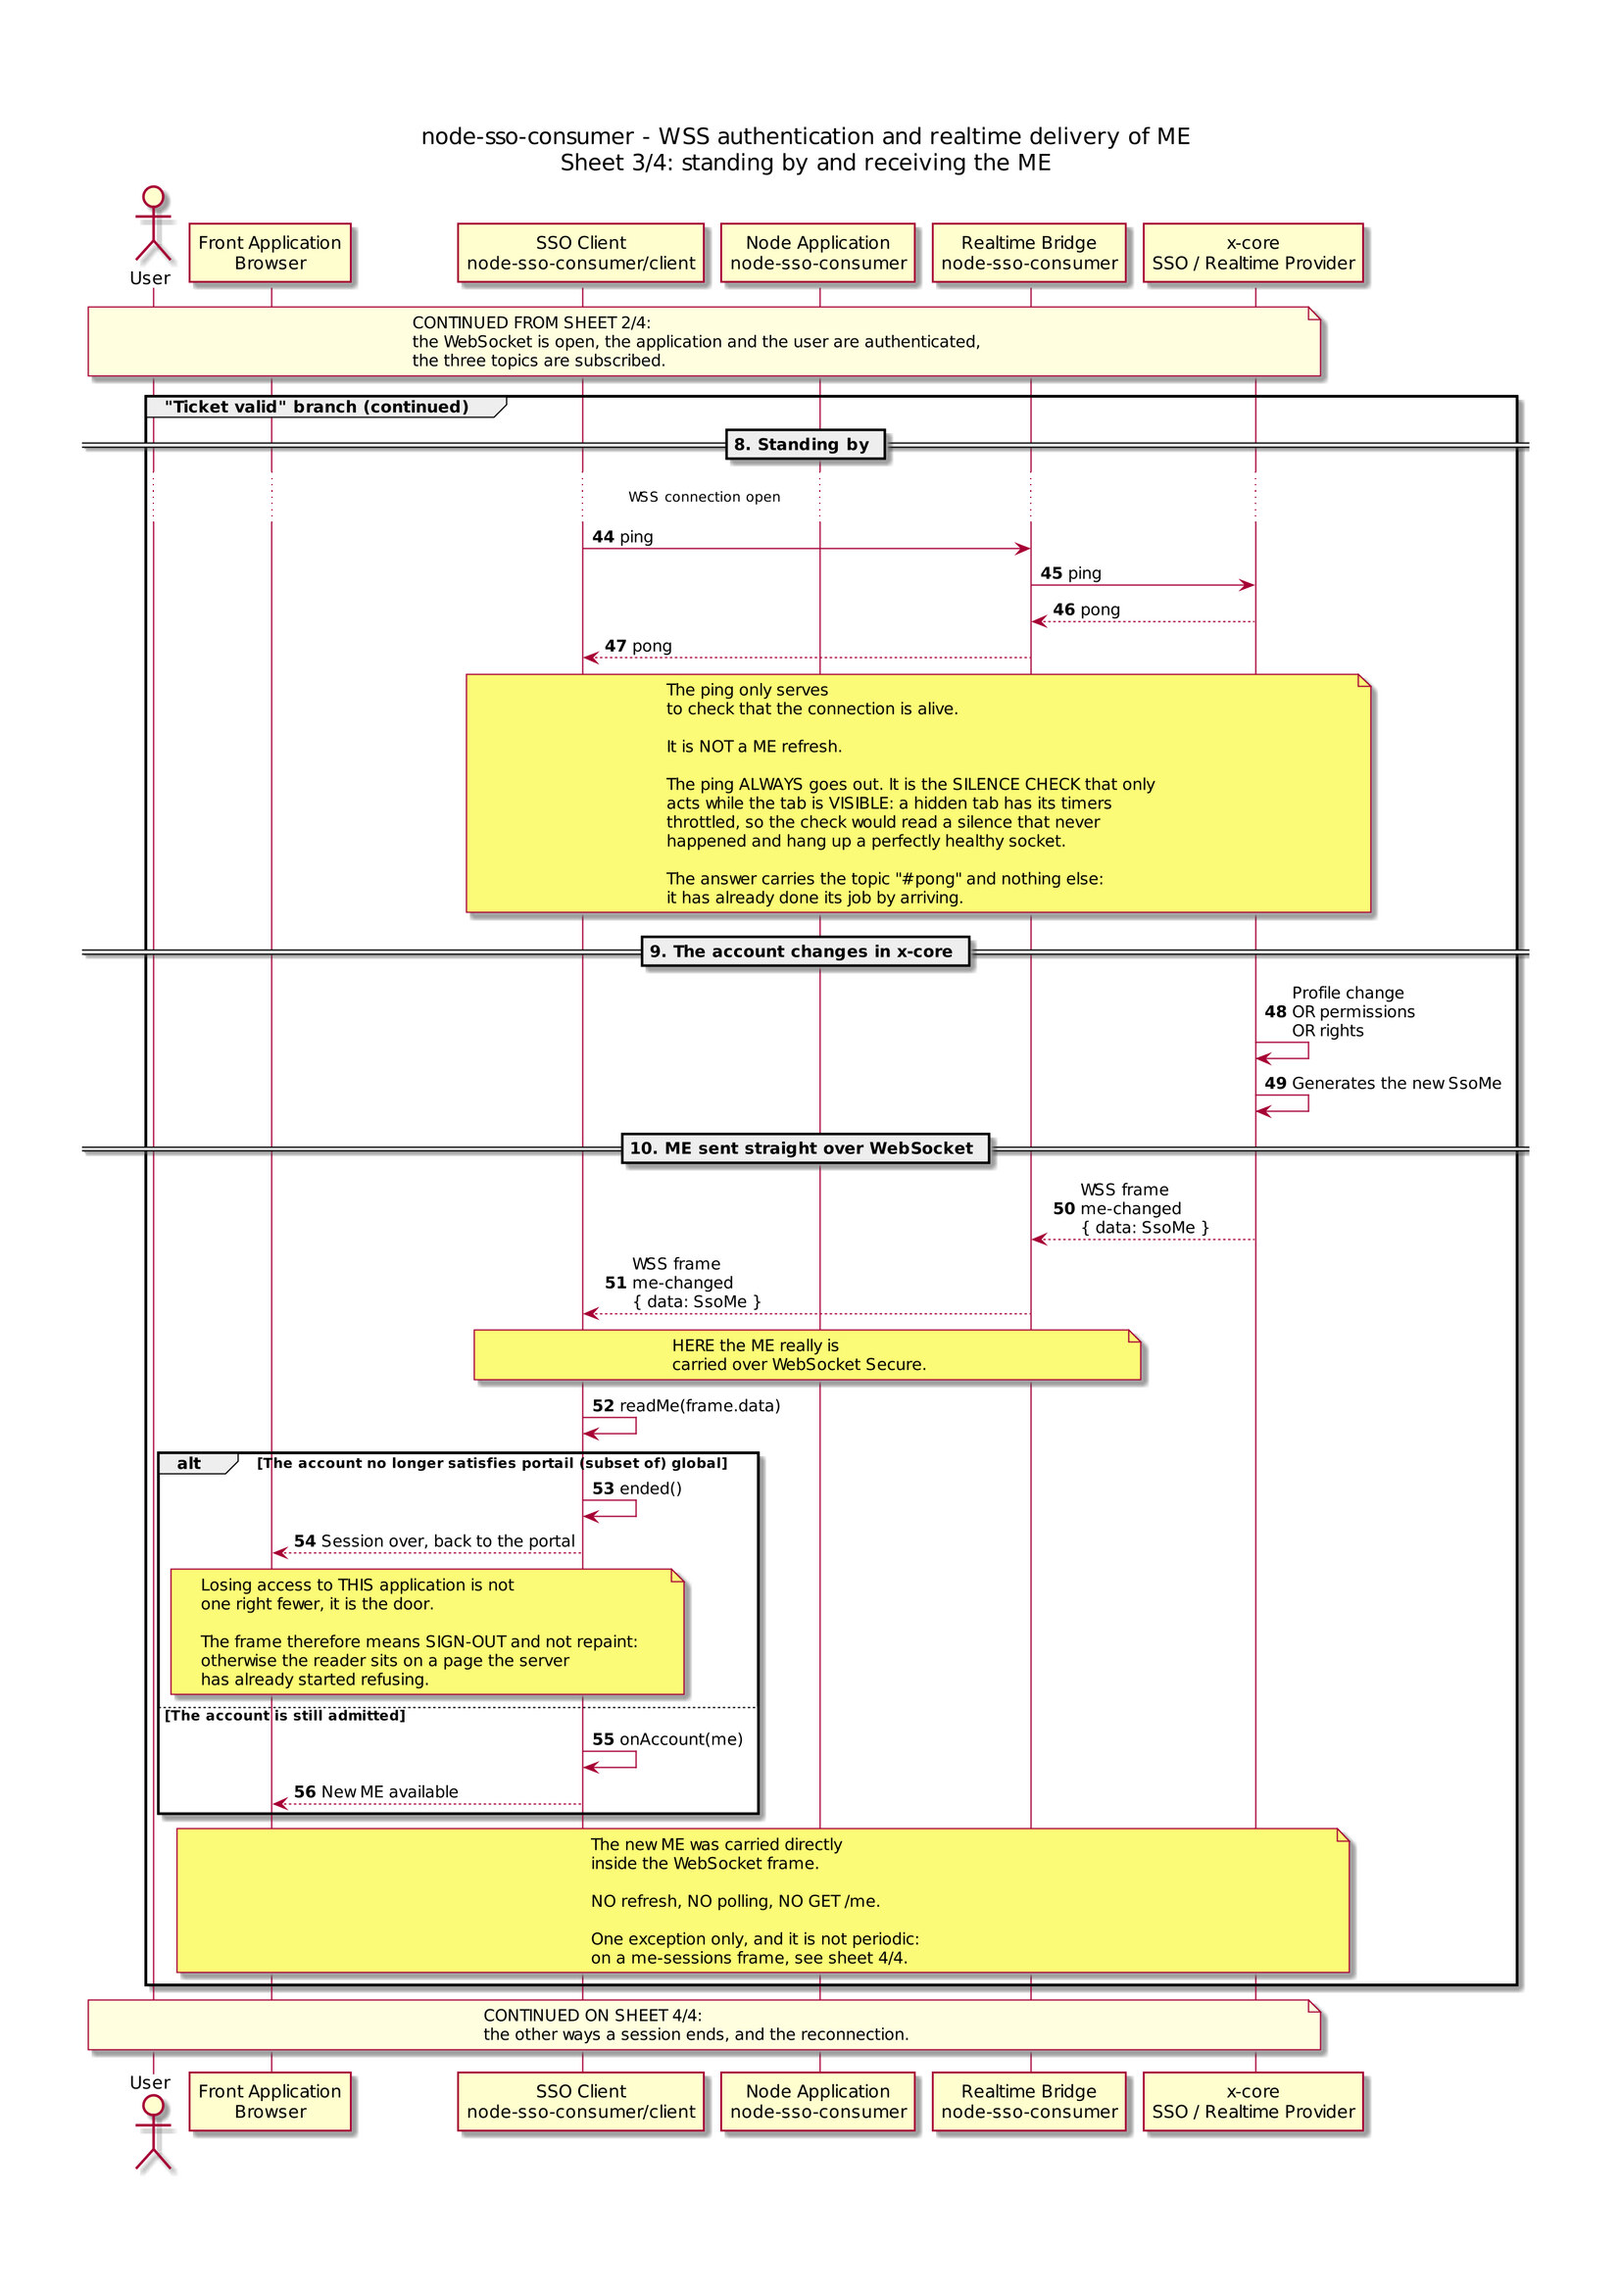
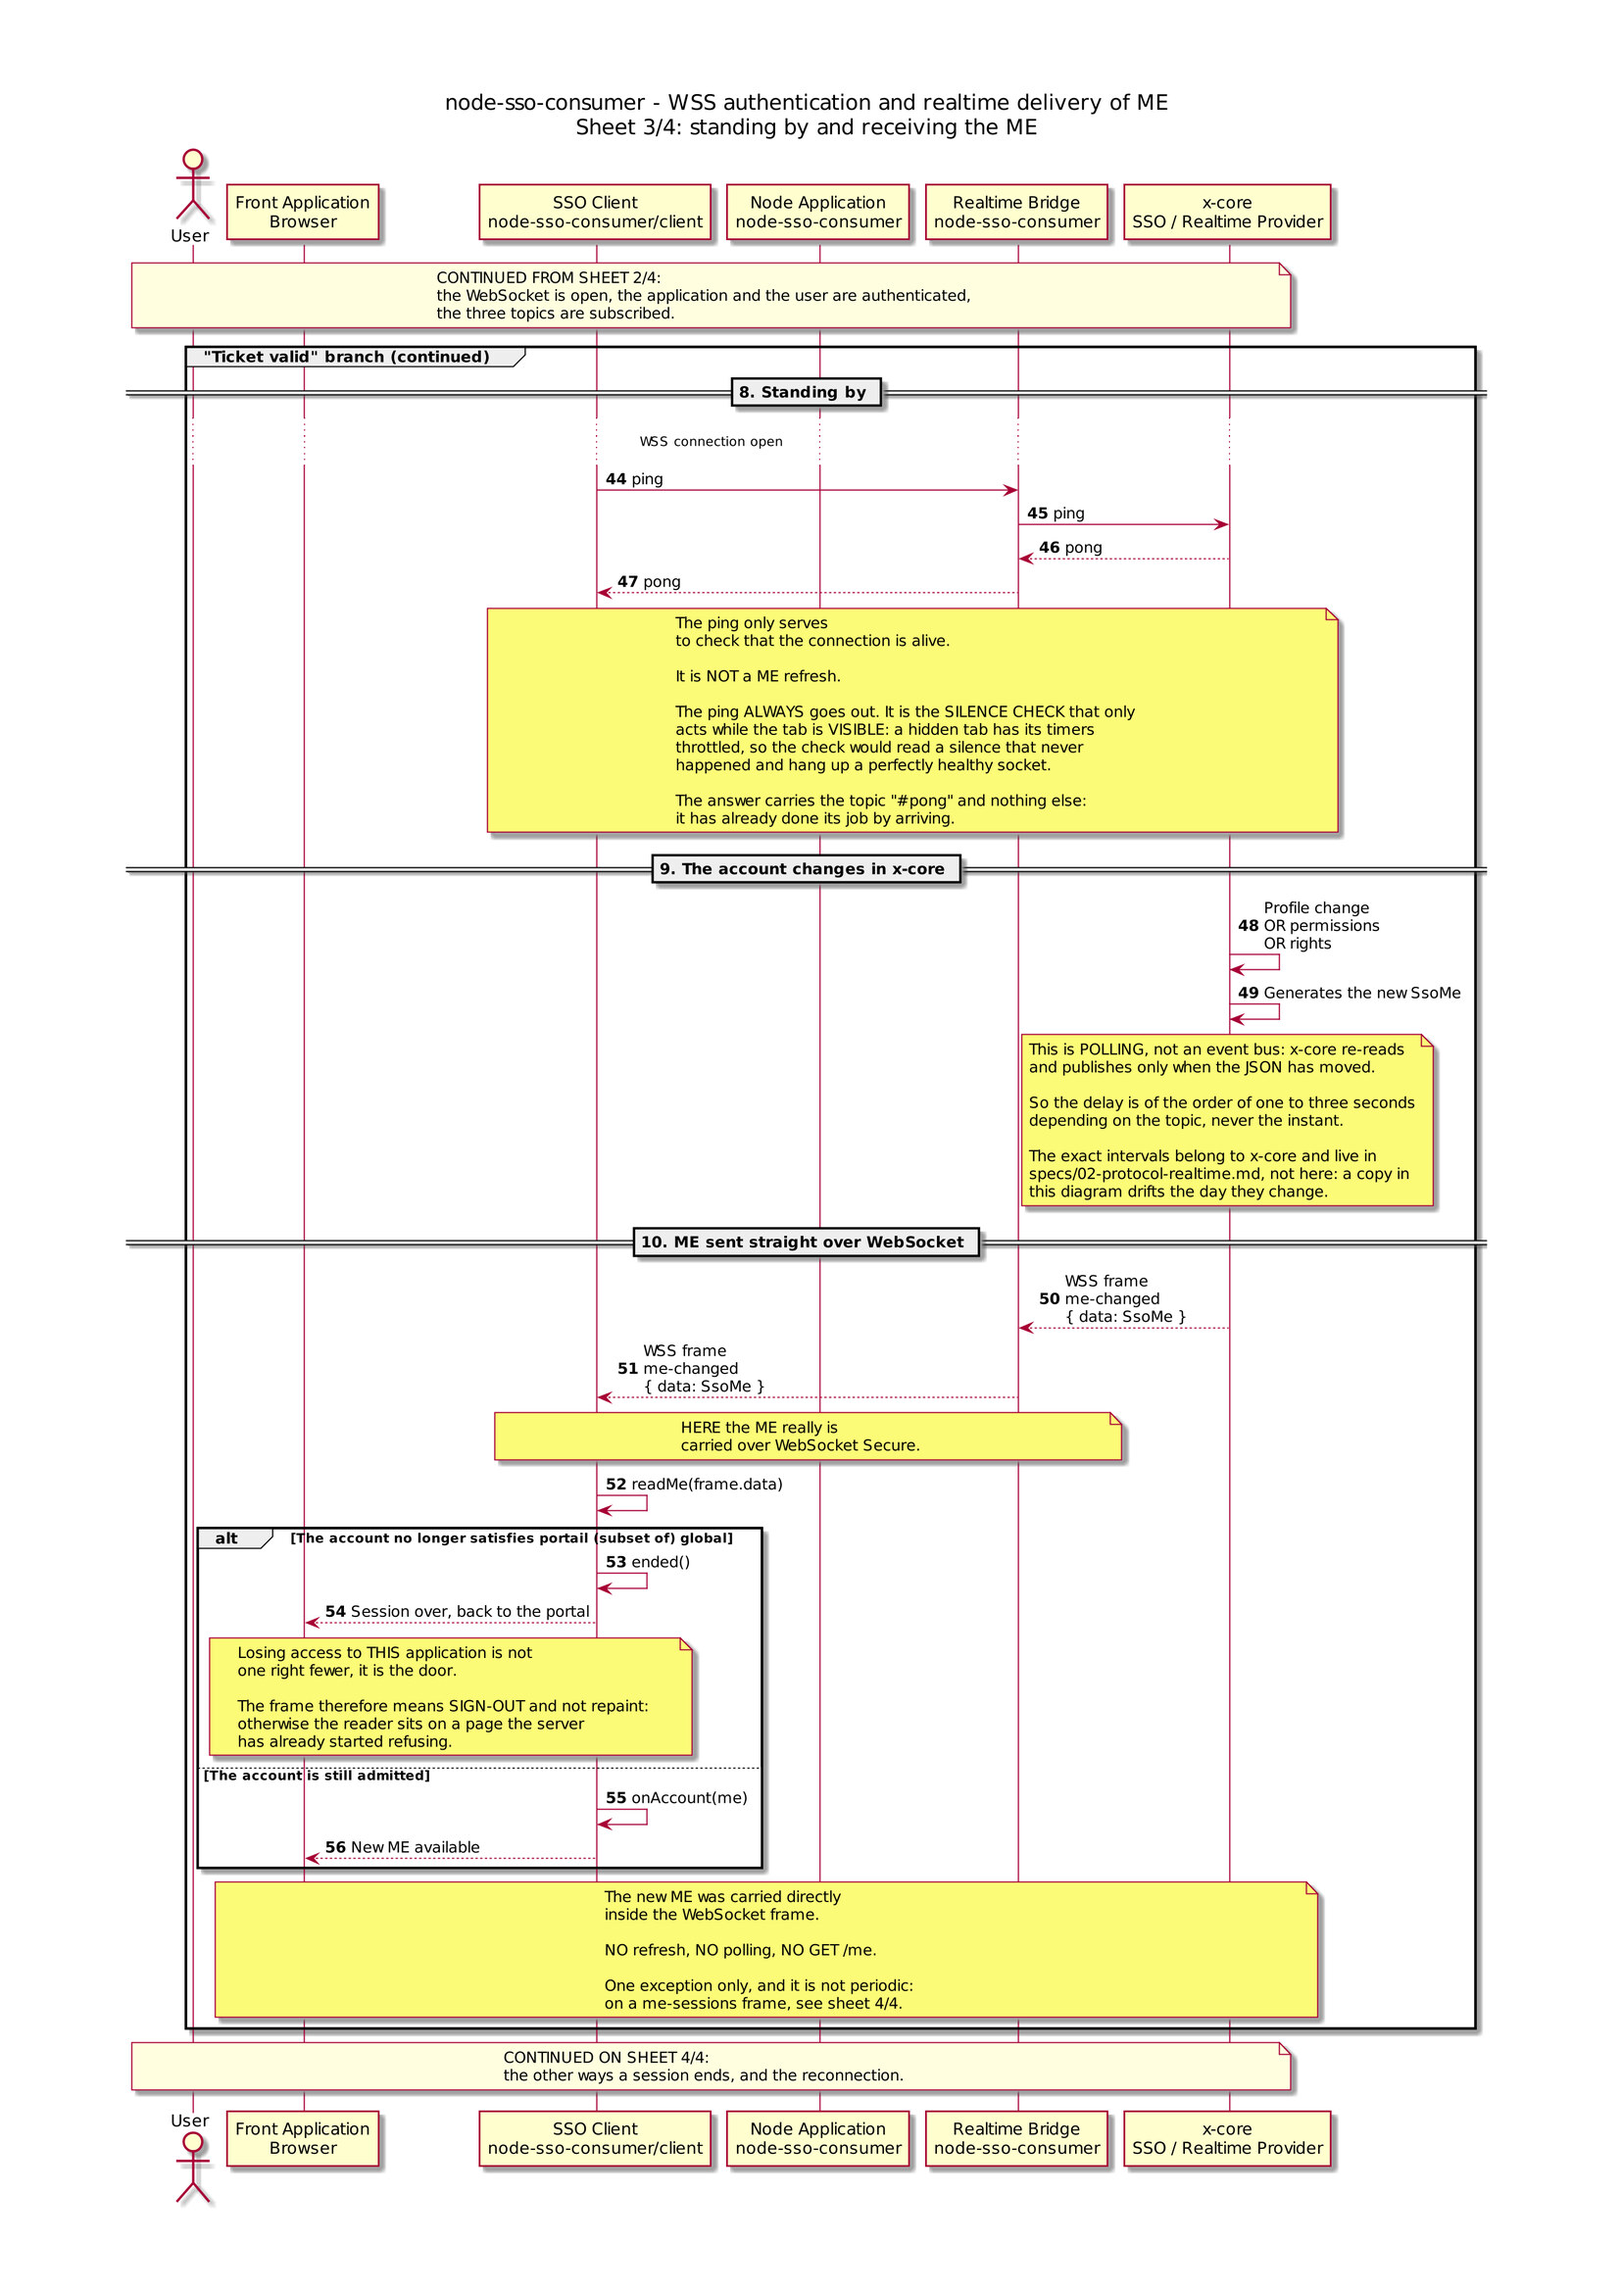
fix(docs): give the real polling intervals, and say the transport is a poller
`02-protocol-realtime.md` gave `3 s` for all three topics. Only `me-changed`
declares that; `me-signed-out` and `me-sessions` take x-core's `WS_DEFAULT_POLL_MS`
of `1 s`, floored at `500 ms`. The error ran in the direction that matters - the end
of a session arrives three times faster than the document promised - and the latency
table repeated it.

Where the figures come from is written down beside them now: they are x-core's
current settings, not promises of the protocol.

The diagrams gain one note, in section 9, where an account changes in x-core. It is
the only place a reader can wonder how long the arrow after it takes, and an arrow
cannot answer: the natural reading is the instant. The note gives the order of
magnitude and sends the reader to the spec for the values rather than copying them,
because a copy in a diagram drifts the day they move.

Changed region(s): [[0.0308, 0.0312, 0.9559, 0.9675]]

diff --git a/docs/specs/fr/02-protocol-realtime.md b/docs/specs/fr/02-protocol-realtime.md
@@ -57,13 +57,13 @@ Envoyées par x-core :
 
 ## Les topics
 
-Un topic est un **poller**, exécuté par socket, qui ne publie que lorsque le JSON diffère de la dernière frame envoyée. Une page au repos coûte donc une requête bornée toutes les quelques secondes, et une page inchangée ne coûte aucun trafic. Chacun est répondu immédiatement à la souscription, si bien qu'un abonné n'attend jamais un intervalle entier pour sa première frame.
+Un topic est un **poller**, exécuté par socket, qui ne publie que lorsque le JSON diffère de la dernière frame envoyée. Son intervalle est celui que le watcher déclare quand il en déclare un, et `1 s` sinon, avec un plancher à `500 ms` - les chiffres ci-dessous sont donc les réglages actuels de x-core plutôt que des promesses du protocole. Une page au repos coûte donc une requête bornée toutes les quelques secondes, et une page inchangée ne coûte aucun trafic. Chacun est répondu immédiatement à la souscription, si bien qu'un abonné n'attend jamais un intervalle entier pour sa première frame.
 
 | Topic           | Frame                                                            | Intervalle | À quoi il sert                                                                                             |
 | --------------- | ---------------------------------------------------------------- | ---------- | ---------------------------------------------------------------------------------------------------------- |
 | `me-changed`    | le compte entier, la forme de [session.json](session.json)       | 3 s        | identité, profil, permissions et groupes, poussés dès que l'un d'eux bouge                                 |
-| `me-signed-out` | `false` tant qu'elle tient, `true` une fois                      | 3 s        | la session est partie : déconnecté du SSO ailleurs, compte désactivé, ou accès à cette application révoqué |
-| `me-sessions`   | les connexions du compte, 50 max, même forme que la lecture HTTP | 3 s        | l'écran des sessions, souscrit seulement tant qu'il est monté                                              |
+| `me-signed-out` | `false` tant qu'elle tient, `true` une fois                      | 1 s        | la session est partie : déconnecté du SSO ailleurs, compte désactivé, ou accès à cette application révoqué |
+| `me-sessions`   | les connexions du compte, 50 max, même forme que la lecture HTTP | 1 s        | l'écran des sessions, souscrit seulement tant qu'il est monté                                              |
 
 `me-changed` et `me-signed-out` sont suivis pour la **session entière** et jamais désabonnés, quelle que soit la page affichée et que la fenêtre ait le focus ou non. Les deux ou aucun : un état alimenté par `me-changed` seul est un cache, et un compte révoqué se promènerait avec les derniers droits qu'on lui a poussés.
 
@@ -78,10 +78,10 @@ Du polling, pas un bus d'événements, et pour une raison : les valeurs publiée
 | Ce qui arrive                                                                    | Comment ça remonte    | Sous  |
 | -------------------------------------------------------------------------------- | --------------------- | ----- |
 | une permission accordée ou révoquée, un groupe déplacé, un profil édité ailleurs | `me-changed`          | ~3 s  |
-| la session SSO fermée, le compte désactivé, l'accès révoqué                      | `me-signed-out: true` | ~3 s  |
+| la session SSO fermée, le compte désactivé, l'accès révoqué                      | `me-signed-out: true` | ~1 s  |
 | la même chose, vue depuis la passerelle                                          | fermeture `4003`      | ~10 s |
 
-Temps réel ici veut dire environ trois secondes. Une librairie qui promettrait l'instant mentirait de trois secondes.
+Temps réel ici veut dire une à trois secondes selon le topic : `me-changed` porte le compte entier et c'est le coûteux, donc il tourne à trois, alors que la fin d'une session tourne à une. Une librairie qui promettrait l'instant mentirait d'une seconde au mieux.
 
 ## La revalidation, et pourquoi le code de fermeture compte
 

diff --git a/docs/specs/en/02-protocol-realtime.md b/docs/specs/en/02-protocol-realtime.md
@@ -57,13 +57,13 @@ Sent by x-core:
 
 ## The topics
 
-A topic is a **poller**, run per socket, that publishes only when the JSON differs from the last frame it sent. So an idle page costs one bounded query every few seconds and an unchanged one costs no traffic at all. Each is answered at once on subscription, so a subscriber never waits a full interval for its first frame.
+A topic is a **poller**, run per socket, that publishes only when the JSON differs from the last frame it sent. Its interval is the watcher's own when it states one and `1 s` when it does not, with a `500 ms` floor - so the figures below are x-core's current settings rather than promises of the protocol. So an idle page costs one bounded query every few seconds and an unchanged one costs no traffic at all. Each is answered at once on subscription, so a subscriber never waits a full interval for its first frame.
 
 | Topic           | Frame                                                            | Interval | What it is for                                                                                                   |
 | --------------- | ---------------------------------------------------------------- | -------- | ---------------------------------------------------------------------------------------------------------------- |
 | `me-changed`    | the whole account, the shape of [session.json](session.json)     | 3 s      | identity, profile, permissions and groups, pushed whenever any of them moves                                     |
-| `me-signed-out` | `false` while it holds, `true` once                              | 3 s      | the session is gone: signed out of the SSO elsewhere, account deactivated, or access to this application revoked |
-| `me-sessions`   | the account's sign-ins, 50 max, same shape the HTTP read answers | 3 s      | the sessions screen, subscribed only while it is mounted                                                         |
+| `me-signed-out` | `false` while it holds, `true` once                              | 1 s      | the session is gone: signed out of the SSO elsewhere, account deactivated, or access to this application revoked |
+| `me-sessions`   | the account's sign-ins, 50 max, same shape the HTTP read answers | 1 s      | the sessions screen, subscribed only while it is mounted                                                         |
 
 `me-changed` and `me-signed-out` are followed for the **whole session** and never unsubscribed, whatever page is showing and whether or not the window has focus. Both or neither: a state fed by `me-changed` alone is a cache, and a revoked account would keep walking around holding the last rights it was pushed.
 
@@ -76,10 +76,10 @@ Polling, not an event bus, and for a reason: the values published here are rows 
 | What happens                                                               | How it arrives        | Within |
 | -------------------------------------------------------------------------- | --------------------- | ------ |
 | a permission granted or revoked, a group moved, a profile edited elsewhere | `me-changed`          | ~3 s   |
-| the SSO session closed, the account deactivated, access revoked            | `me-signed-out: true` | ~3 s   |
+| the SSO session closed, the account deactivated, access revoked            | `me-signed-out: true` | ~1 s   |
 | the same, seen from the gateway                                            | close `4003`          | ~10 s  |
 
-Realtime here means about three seconds. A library that promised the instant would be lying by three seconds.
+Realtime here means one to three seconds depending on the topic: `me-changed` carries the whole account and is the expensive one, so it runs at three, while the end of a session runs at one. A library that promised the instant would be lying by a second at best.
 
 ## Revalidation, and why the close code matters
 

diff --git a/CHANGELOG.md b/CHANGELOG.md
@@ -1,5 +1,10 @@
 # CHANGELOG
 
+## [0.1.5] - 2026-08-24
+
+- Say the real polling intervals. `02-protocol-realtime.md` gave `3 s` for all three topics; only `me-changed` declares that, and `me-signed-out` and `me-sessions` take x-core's default of `1 s`, with a `500 ms` floor. The error ran in the direction that matters - the end of a session arrives three times faster than the document promised - and it was in the latency table too. Where the figures come from is written down with them now, because they are x-core's current settings rather than promises of the protocol
+- Say in the diagrams that this is polling. Section 9 draws an account changing in x-core, which is the one place a reader can wonder how long the arrow after it takes, and an arrow cannot answer that: the natural reading is the instant, and the truth is one to three seconds. The note gives the order of magnitude and sends the reader to the spec for the values rather than copying them, since a copy in a diagram drifts the day they move
+
 ## [0.1.4] - 2026-08-24
 
 - Ship the printable sheets as JPEG rather than PNG. `0.1.3` published eight A4 renderings at about 630 KB each, which is 5.1 MB of images in a package that is otherwise under half a megabyte - so installing this library to call six routes pulled ten times its own weight in pictures. At quality 88 with no chroma subsampling the text stays crisp at 200 dpi, and the eight come to 3.6 MB
